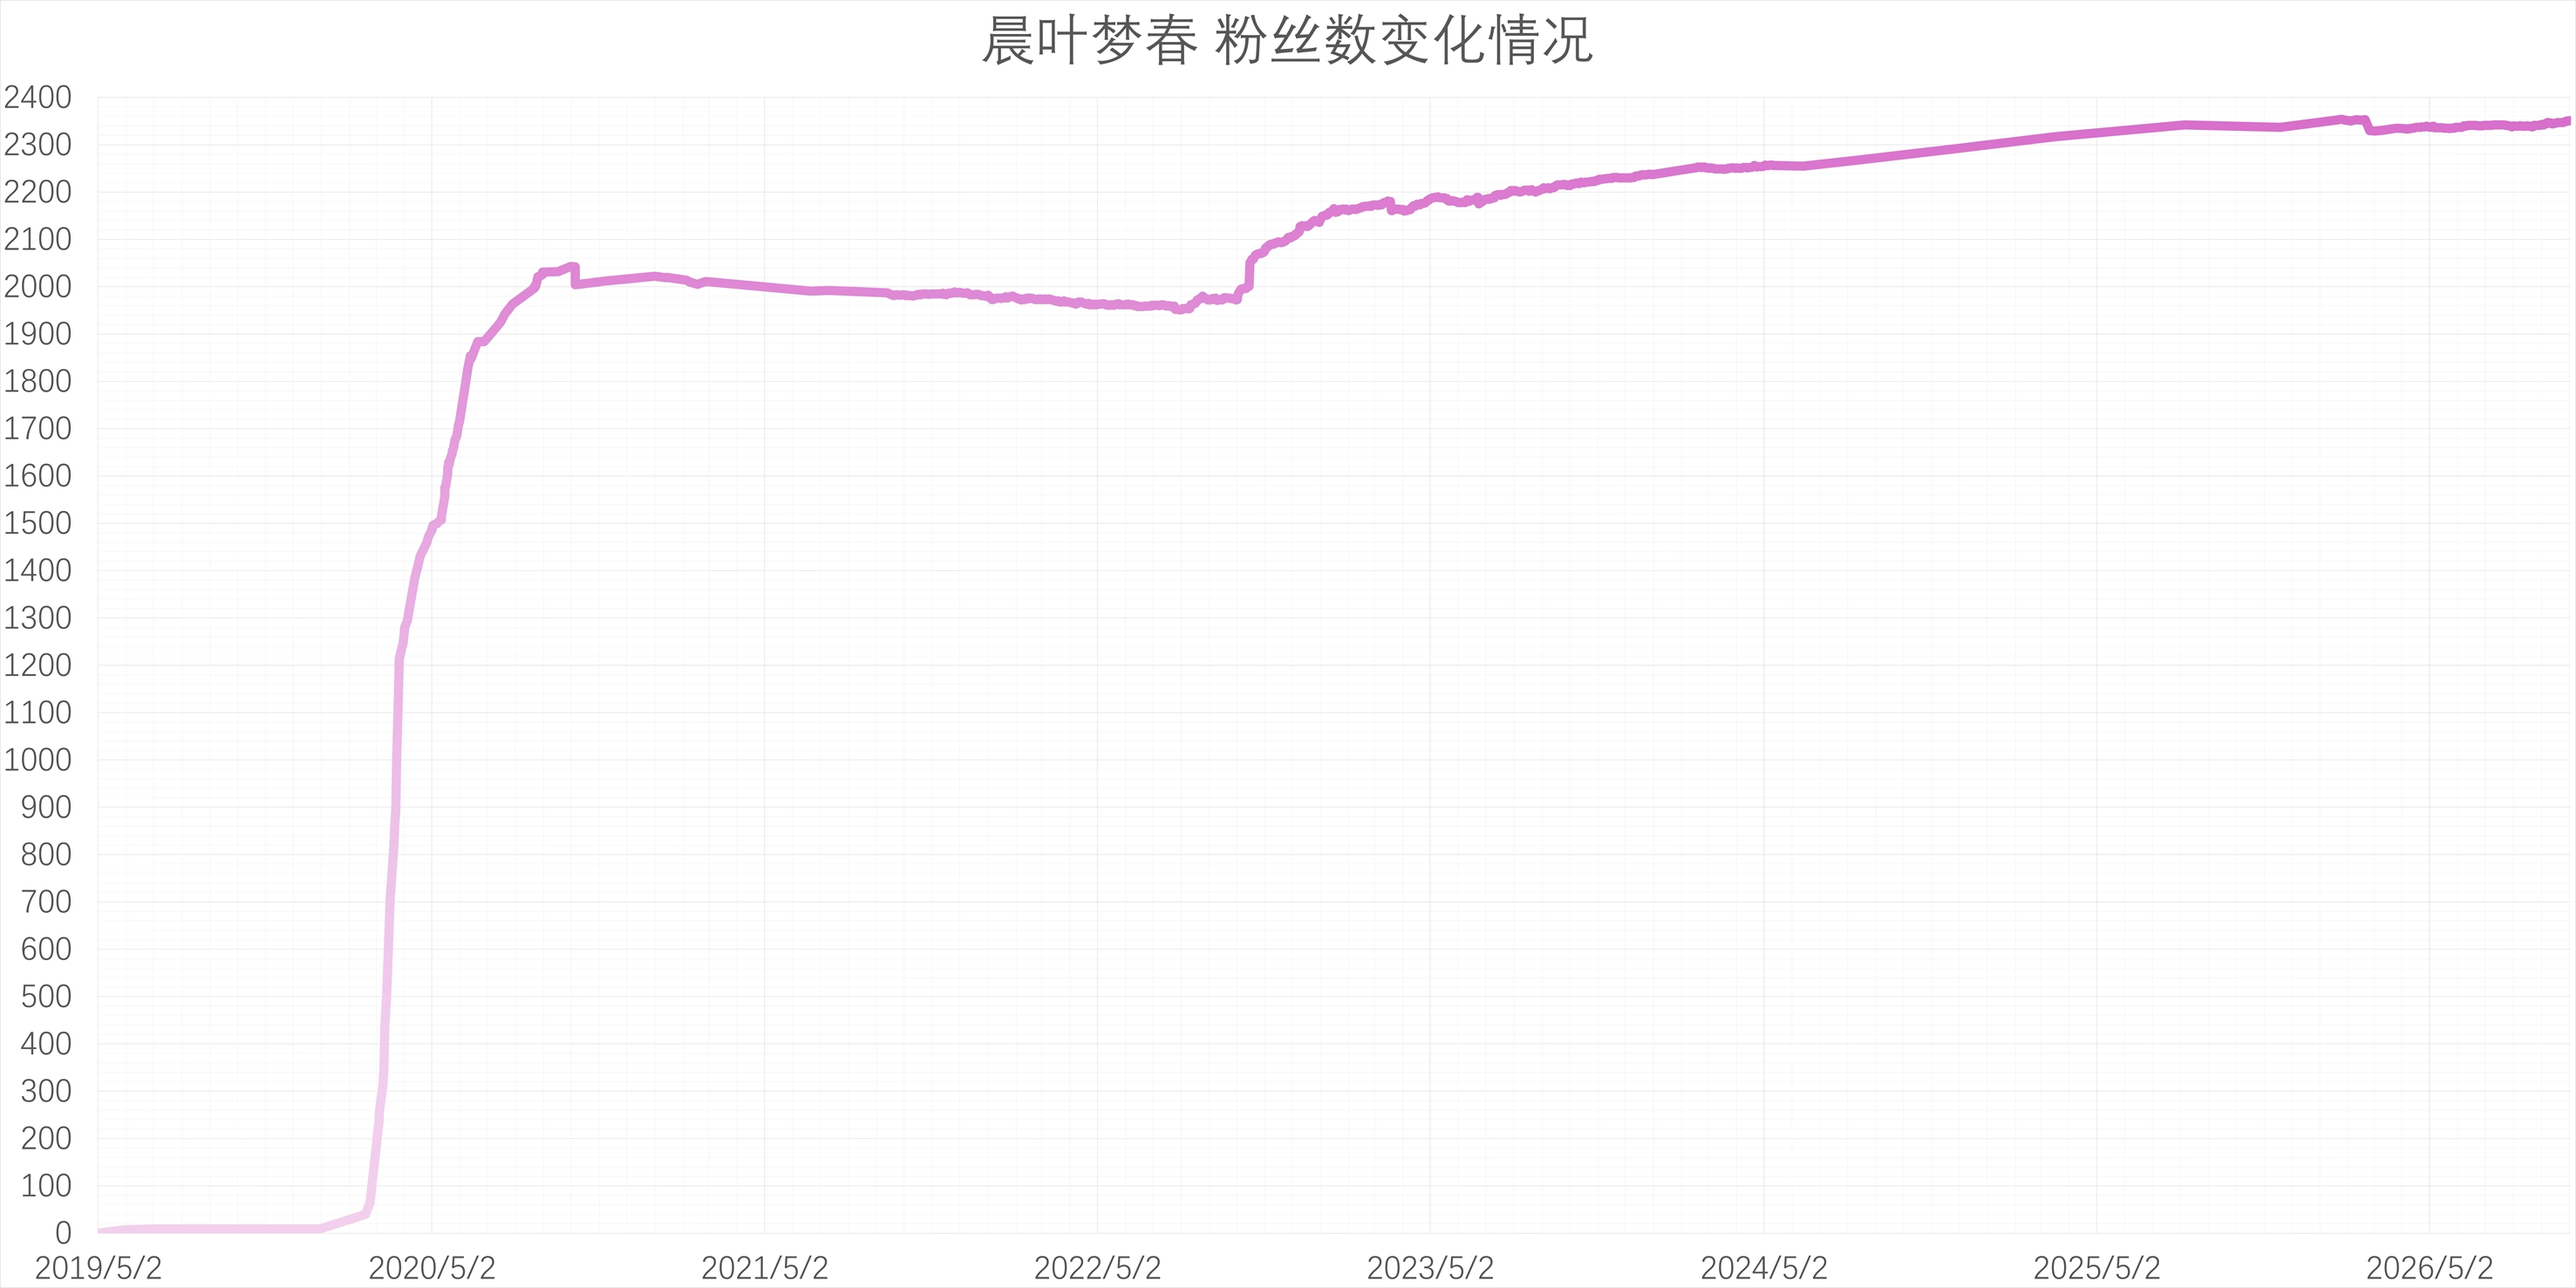
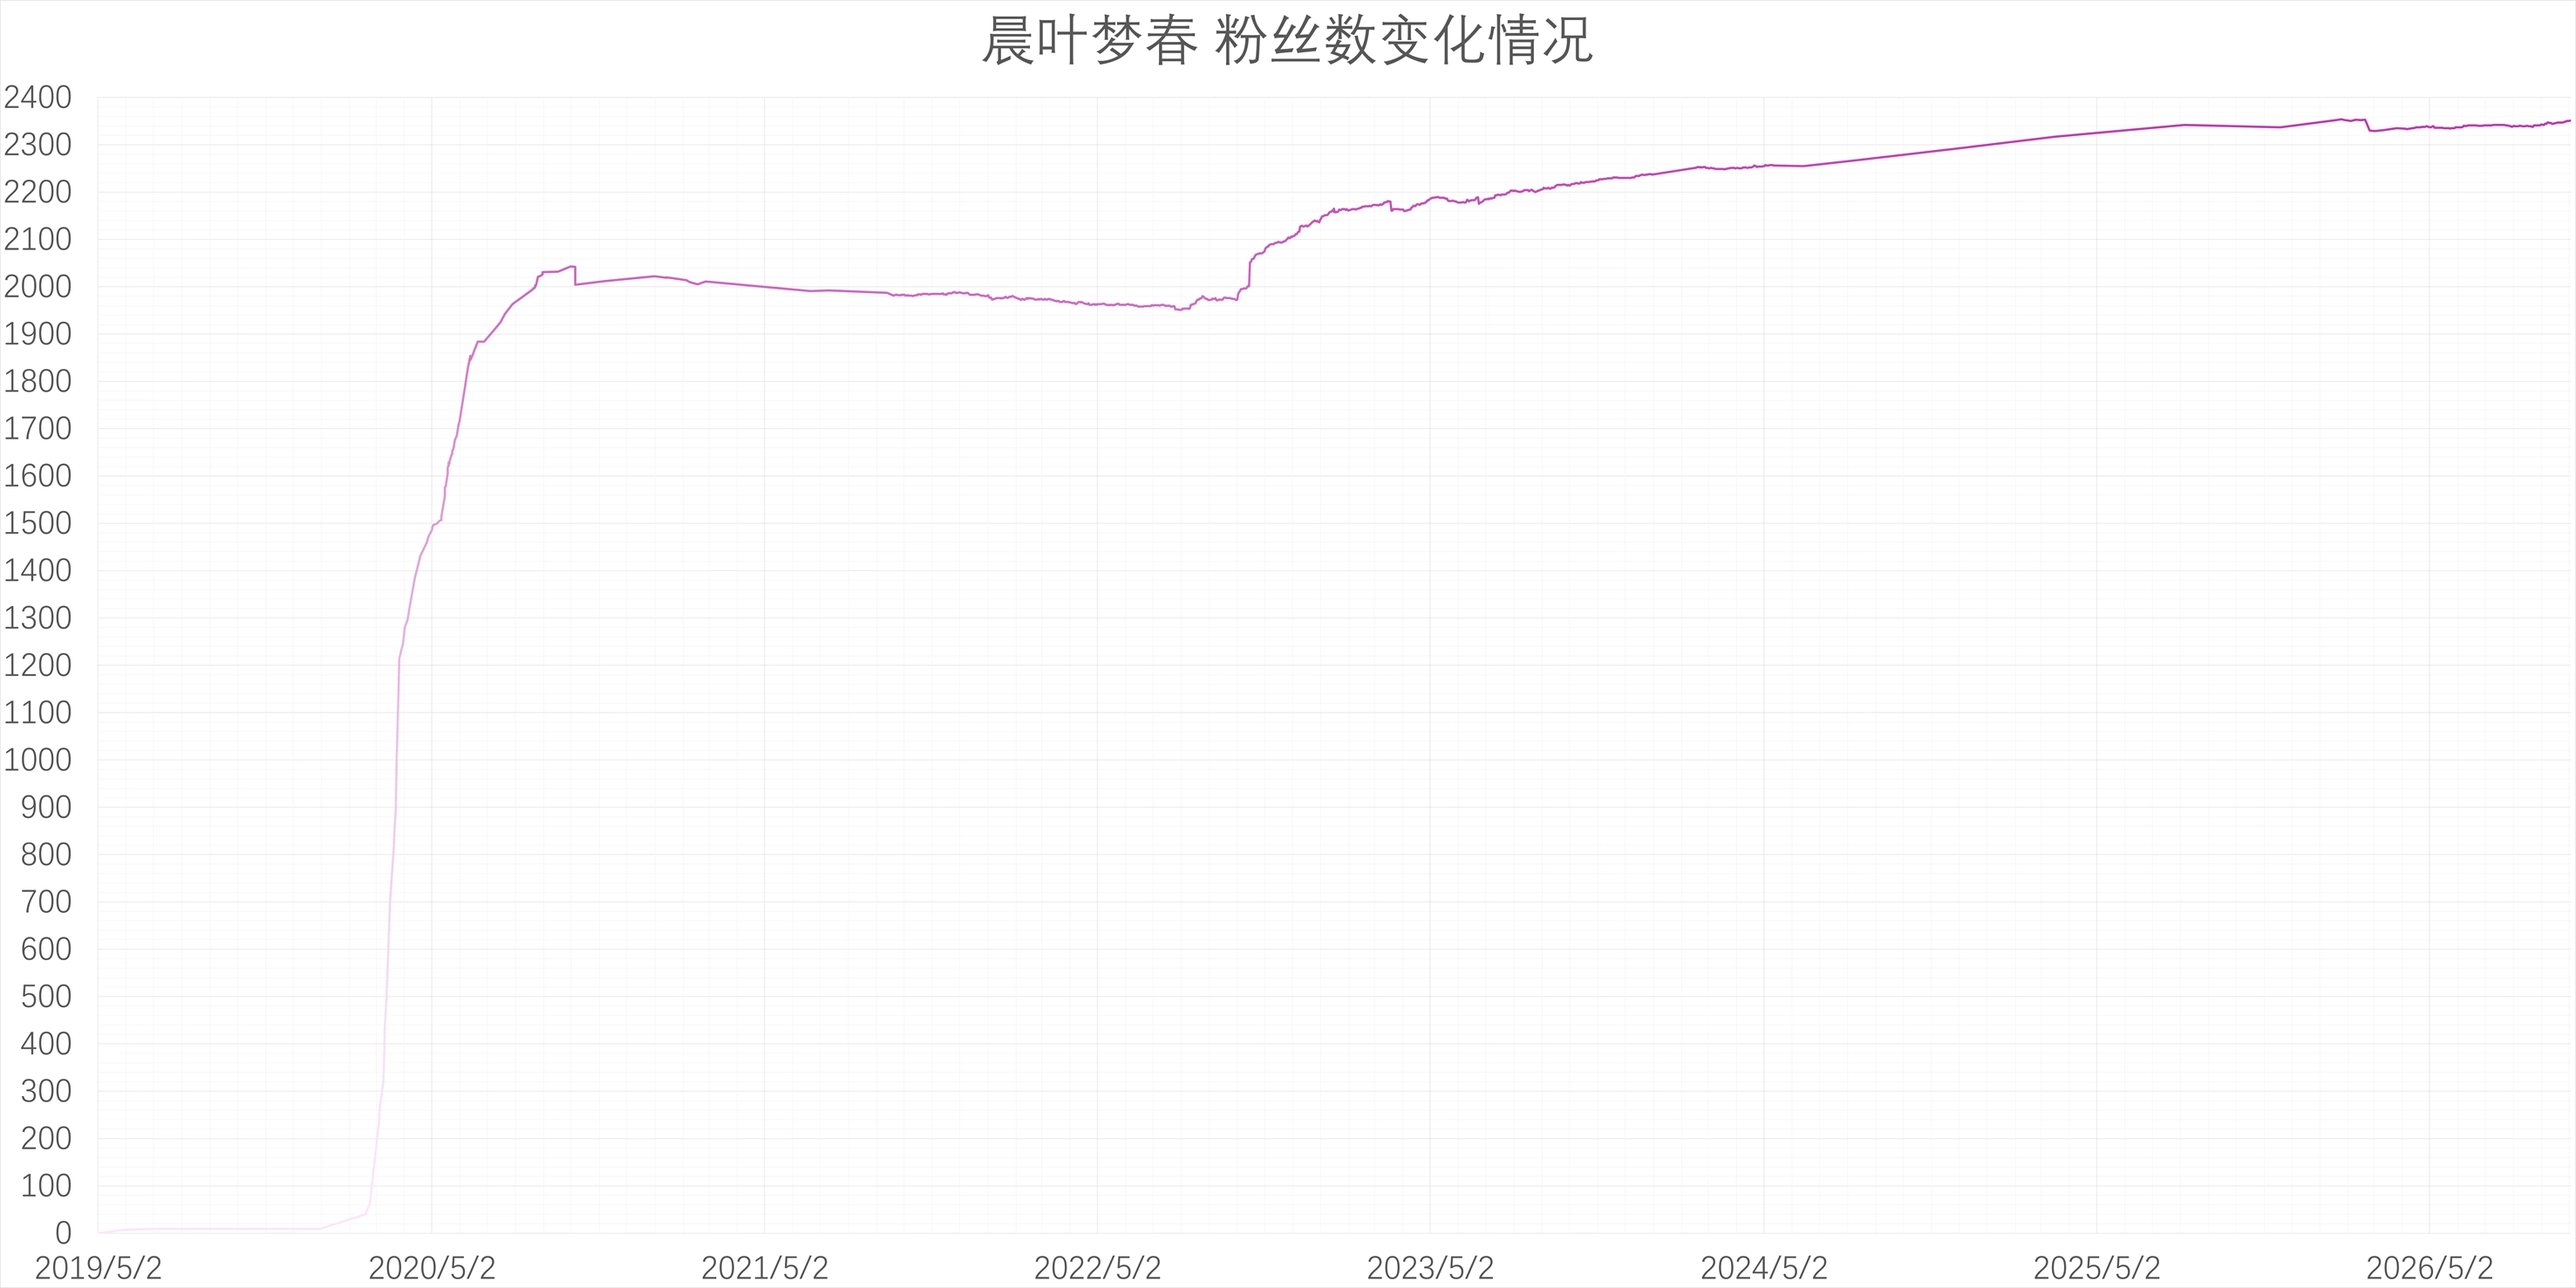
fix: fancybox style

diff --git a/source/js/third-party/fancybox.js b/source/js/third-party/fancybox.js
@@ -9,7 +9,7 @@ document.addEventListener('page:loaded', () => {
     const imageLink = image.dataset.src || image.src;
     const imageWrapLink = document.createElement('a');
     imageWrapLink.classList.add('fancybox');
-    imageWrapLink.href = imageLink.replace(/^\/(.+)\.(.+)_compressed\..+$/, '\/$1.$2').replace(/^\/(.+)_compressed\.(.+)$/, '\/$1.$2');
+    imageWrapLink.href = imageLink.replace(/\/(.+)\.(.+)_compressed\..+/, '\/$1.$2').replace(/\/(.+)_compressed\.(.+)/, '\/$1.$2');
     imageWrapLink.setAttribute('itemscope', '');
     imageWrapLink.setAttribute('itemtype', 'http://schema.org/ImageObject');
     imageWrapLink.setAttribute('itemprop', 'url');
